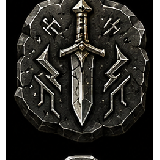
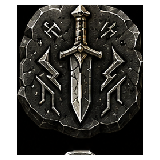
feat: tap-to-wear Armory knights, single CHEST, centered emblems, black codex
Armory knight tiles are now clickable — tap any knight to wear it (admin:
locked ones too; gold WORN marker; tap again to revert to your level). All
chest sources drop one unified CHEST at 45/45/10 genre odds, 60/30/10 tiers.
Emblems auto-trim + center on transparent square tiles. Codex sits on pure
black so the art blends in.

diff --git a/src/ui/hero/Codex.tsx b/src/ui/hero/Codex.tsx
@@ -3,7 +3,7 @@
 import type { CSSProperties } from 'react';
 import { CATALOG, CHEST_NAMES, type LootDef } from '../../game/loot';
 import type { ChestKind, LootTier } from '../../core/types';
-import { Panel, SectionLabel } from '../atoms';
+import { SectionLabel } from '../atoms';
 import { emblemUrl } from '../loot/emblems';
 import chestPng from '../loot/chest.png';
 
@@ -14,9 +14,7 @@ const TIER_COLOR: Record<LootTier, string> = {
 };
 
 const CHEST_ROWS: { kind: ChestKind; earned: string; odds: string }[] = [
-  { kind: 'wooden', earned: 'EVERY 7 DAYS OF OVERALL STREAK', odds: '70% TOKEN · 27% ENCHANT · 3% TOTEM' },
-  { kind: 'war', earned: 'DEFEAT THE WEEKLY BOSS', odds: '45% TOKEN · 45% ENCHANT · 10% TOTEM' },
-  { kind: 'gilded', earned: 'SLAY A RISEN BOSS · STREAK 30/60/100 · S-STREAK 7', odds: '20% TOKEN · 55% ENCHANT · 25% TOTEM' },
+  { kind: 'war', earned: 'DEFEAT THE WEEKLY BOSS · SLAY A RISEN BOSS · EVERY 7 DAYS OF STREAK · STREAK 30/60/100 · S-STREAK 7', odds: '45% TOKEN · 45% ENCHANT · 10% TOTEM' },
 ];
 
 function tierValue(def: LootDef, tier: LootTier): string {
@@ -57,12 +55,12 @@ export default function Codex({ onClose }: { onClose: () => void }) {
   return (
     <div
       style={{
-        position: 'fixed', inset: 0, zIndex: 80, background: 'rgba(5,7,5,0.96)',
+        position: 'fixed', inset: 0, zIndex: 80, background: '#000',
         overflowY: 'auto', padding: 16, display: 'flex', justifyContent: 'center',
       }}
     >
-      <div style={{ width: '100%', maxWidth: 398 }}>
-        <Panel>
+      <div style={{ width: '100%', maxWidth: 398, background: '#000' }}>
+        <div>
           <div style={{ display: 'flex', alignItems: 'baseline', justifyContent: 'space-between' }}>
             <span style={{ fontFamily: 'var(--font-title)', fontSize: 30, color: 'var(--gild-bright)' }}>
               Codex
@@ -79,7 +77,7 @@ export default function Codex({ onClose }: { onClose: () => void }) {
             </button>
           </div>
 
-          <SectionLabel>CHESTS</SectionLabel>
+          <SectionLabel>THE CHEST</SectionLabel>
           {CHEST_ROWS.map((c) => (
             <div key={c.kind} style={{ display: 'flex', gap: 10, alignItems: 'center', padding: '6px 0', borderBottom: '1px solid var(--hairline)' }}>
               <img src={chestPng} alt="" style={{ width: 40, height: 40, imageRendering: 'pixelated' }} />
@@ -91,7 +89,7 @@ export default function Codex({ onClose }: { onClose: () => void }) {
             </div>
           ))}
           <div style={{ ...bodyText, fontSize: 14, color: 'var(--text-faint)', margin: '4px 0 10px' }}>
-            TIER ROLL: 60/30/10 — GILDED: 40/40/20. TOTEMS ARE ALWAYS MYTHIC.
+            TIER ROLL: 60% COMMON · 30% RARE · 10% MYTHIC. TOTEMS ARE ALWAYS MYTHIC.
           </div>
 
           <SectionLabel>TOKENS — XP</SectionLabel>
@@ -115,7 +113,7 @@ export default function Codex({ onClose }: { onClose: () => void }) {
               </div>
             ))}
           </div>
-        </Panel>
+        </div>
       </div>
     </div>
   );

diff --git a/src/ui/hero/Armory.tsx b/src/ui/hero/Armory.tsx
@@ -9,6 +9,7 @@ interface Tile {
   condition: string;
   unlocked: boolean;
   perk?: string;
+  ageLevel?: number;   // set on armor-age tiles — tap to wear that knight
 }
 
 /**
@@ -18,6 +19,8 @@ interface Tile {
  */
 export default function Armory() {
   const level = useOath((s) => s.ageLevel); // admin override wins
+  const settings = useOath((s) => s.settings);
+  const updateSettings = useOath((s) => s.updateSettings);
   const unlocks = useOath((s) => s.unlocks);
   const streaks = useOath((s) => s.streaks);
   const prs = useOath((s) => s.prs);
@@ -32,7 +35,15 @@ export default function Armory() {
     condition: `LV ${lv}`,
     unlocked: level >= lv,
     perk: perkByLevel.get(lv),
+    ageLevel: lv,
   }));
+
+  /** Tap a knight to wear it (admin: any knight, locked or not). Tap the worn one to revert. */
+  const wear = (lv: number): void => {
+    const worn = settings.adminKnightLevel;
+    void updateSettings(worn === lv ? { adminKnightLevel: undefined } : { adminKnightLevel: lv });
+  };
+  const wornLevel = AGE_PERKS.filter(([lv]) => lv <= level).map(([lv]) => lv).pop() ?? 1;
 
   // Cosmetic unlocks beyond the ages (spec §3): helms, capes, crests.
   tiles.push(
@@ -70,14 +81,22 @@ export default function Armory() {
         {tiles.map((t) => (
           <div
             key={t.key}
+            onClick={t.ageLevel !== undefined ? () => wear(t.ageLevel as number) : undefined}
             style={{
-              border: `1px solid ${t.unlocked ? 'var(--border)' : 'var(--hairline)'}`,
+              border: `1px solid ${t.ageLevel === wornLevel ? 'var(--gild)' : t.unlocked ? 'var(--border)' : 'var(--hairline)'}`,
               background: 'var(--panel)',
               padding: '8px 6px',
               textAlign: 'center',
               opacity: t.unlocked ? 1 : 0.55,
+              cursor: t.ageLevel !== undefined ? 'pointer' : 'default',
+              boxShadow: t.ageLevel === wornLevel ? '0 0 8px rgba(201,162,60,0.35)' : 'none',
             }}
           >
+            {t.ageLevel === wornLevel && (
+              <div style={{ fontFamily: 'var(--font-label)', fontSize: 6, letterSpacing: '0.2em', color: 'var(--gild)', marginBottom: 3 }}>
+                ◆ WORN ◆
+              </div>
+            )}
             <div
               style={{
                 fontFamily: 'var(--font-body)',

diff --git a/src/game/loot.ts b/src/game/loot.ts
@@ -43,22 +43,24 @@ export const CATALOG: LootDef[] = [
     desc: 'OVERKILL CARRIES +25% MORE INTO NEXT WEEK', value: 0.25 },
 ];
 
+// One chest to rule them all: every source drops the same "CHEST" with
+// uniform odds (the old kind field remains in storage for stable ids).
 export const CHEST_NAMES: Record<ChestKind, string> = {
-  wooden: 'WOODEN CHEST', war: 'WAR CHEST', gilded: 'GILDED CHEST',
+  wooden: 'CHEST', war: 'CHEST', gilded: 'CHEST',
 };
 
-/** Genre odds per chest kind: [token, enchant, totem]. */
+/** Genre odds — identical for every chest: [token, enchant, totem]. */
 const GENRE_ODDS: Record<ChestKind, [number, number, number]> = {
-  wooden: [0.70, 0.27, 0.03],
+  wooden: [0.45, 0.45, 0.10],
   war: [0.45, 0.45, 0.10],
-  gilded: [0.20, 0.55, 0.25],
+  gilded: [0.45, 0.45, 0.10],
 };
 
-/** Tier odds per chest kind: [common, rare, mythic]. */
+/** Tier odds — identical for every chest: [common, rare, mythic]. */
 const TIER_ODDS: Record<ChestKind, [number, number, number]> = {
   wooden: [0.60, 0.30, 0.10],
   war: [0.60, 0.30, 0.10],
-  gilded: [0.40, 0.40, 0.20],
+  gilded: [0.60, 0.30, 0.10],
 };
 
 function pickWeighted<T>(entries: [T, number][], roll: number): T {
